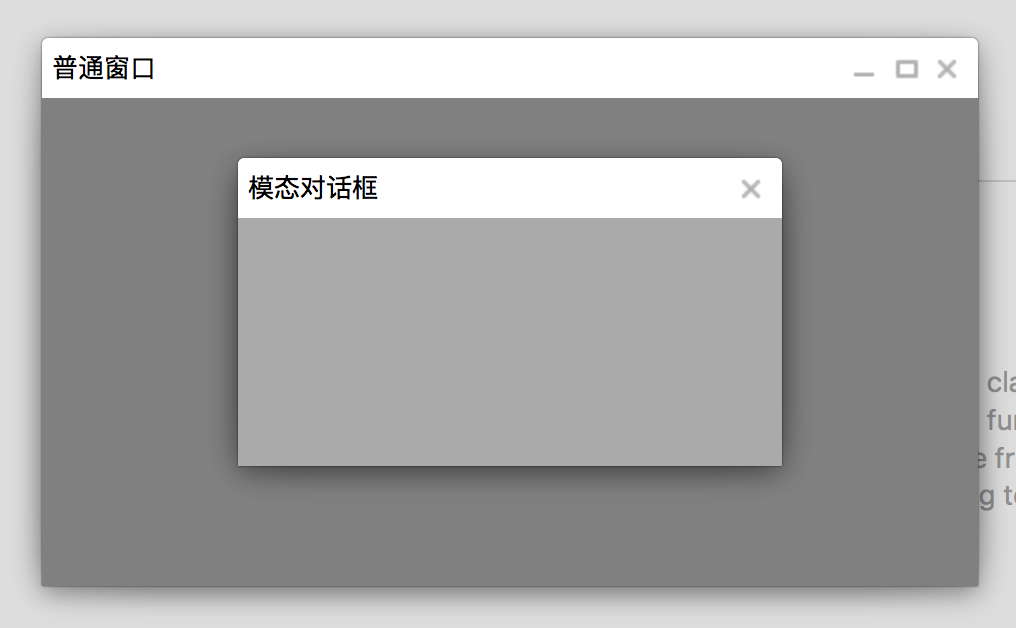
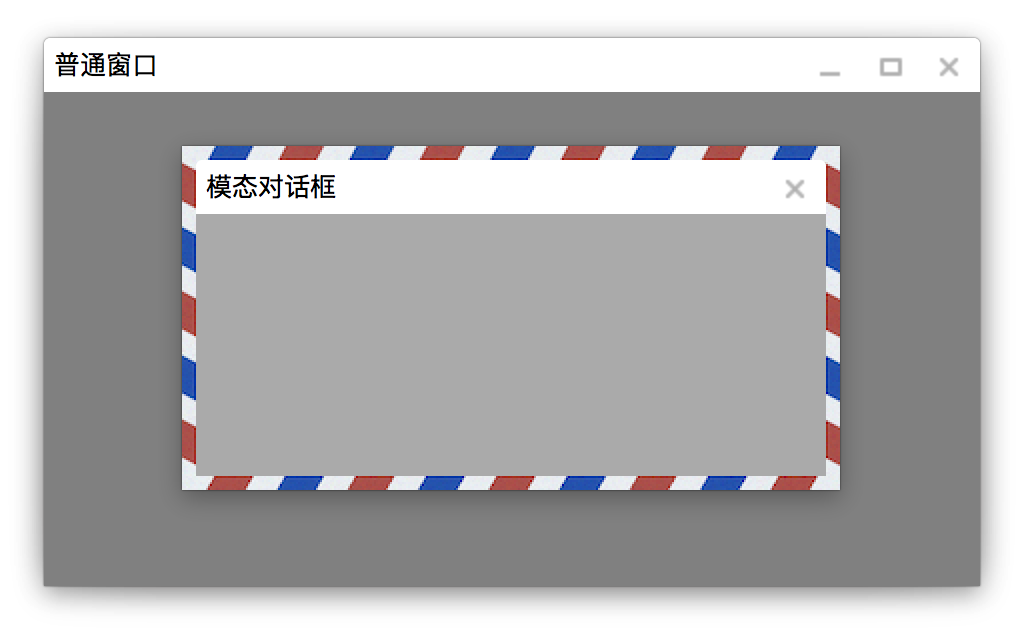
增加自定义边框功能

diff --git a/MagicWindow/NinePatchPainter.cpp b/MagicWindow/NinePatchPainter.cpp
@@ -9,16 +9,17 @@
  |----------------------------------------------------------------------------*/
 class NinePatchPainterPrivate {
 public:
-    NinePatchPainterPrivate(int left, int top, int right, int bottom, const QString &imagePath);
+    NinePatchPainterPrivate(int left, int top, int right, int bottom, const QString &imagePath, bool tiled);
 
-    void prepareNinePatchImages(const QString imagePath); // 根据给定的 left, top, right, bottom 把图片按九宫格切为 9 个子图
+    void prepareNinePatchPixmaps(const QString imagePath); // 根据给定的 left, top, right, bottom 把图片按九宫格切为 9 个子图
     QList<QRect> calculateNinePatchRects(const QRect &rect) const; // 根据给定的 left, top, right, bottom 把 rect 按九宫格切为 9 个 rect
-    QPixmap scaleImage(const QPixmap &pixmap, const QSize &size) const; // 对图片进行缩放处理
+    QPixmap scalePixmap(const QPixmap &pixmap, const QSize &size) const; // 对图片进行缩放处理
 
-    int left;   // 左边的宽
-    int top;    // 上边的宽
-    int right;  // 右边的宽
-    int bottom; // 下边的宽
+    int  left;   // 左边的宽
+    int  top;    // 上边的宽
+    int  right;  // 右边的宽
+    int  bottom; // 下边的宽
+    bool tiled;  // 是否使用平铺绘制
 
     QPixmap leftPixmap;        // 左边的图片
     QPixmap topLeftPixmap;     // 左上角的图片
@@ -31,12 +32,12 @@ public:
     QPixmap centerPixmap;      // 中间的图片
 };
 
-NinePatchPainterPrivate::NinePatchPainterPrivate(int left, int top, int right, int bottom, const QString &imagePath)
-    : left(left), top(top), right(right), bottom(bottom) {
-    prepareNinePatchImages(imagePath); // 准备好九宫格的 9 个子图，程序运行期间不会变，所以保存起来
+NinePatchPainterPrivate::NinePatchPainterPrivate(int left, int top, int right, int bottom, const QString &imagePath, bool tiled)
+    : left(left), top(top), right(right), bottom(bottom), tiled(tiled) {
+    prepareNinePatchPixmaps(imagePath); // 准备好九宫格的 9 个子图，程序运行期间不会变，所以保存起来
 }
 
-void NinePatchPainterPrivate::prepareNinePatchImages(const QString imagePath) {
+void NinePatchPainterPrivate::prepareNinePatchPixmaps(const QString imagePath) {
     // 加载背景图
     QPixmap pixmap(imagePath);
 
@@ -79,7 +80,7 @@ QList<QRect> NinePatchPainterPrivate::calculateNinePatchRects(const QRect &rect)
                           << centerRect;
 }
 
-QPixmap NinePatchPainterPrivate::scaleImage(const QPixmap &pixmap, const QSize &size) const {
+QPixmap NinePatchPainterPrivate::scalePixmap(const QPixmap &pixmap, const QSize &size) const {
     // 缩放的时候忽略图片的高宽比，使用平滑缩放的效果
     return pixmap.scaled(size, Qt::IgnoreAspectRatio, Qt::SmoothTransformation);
 }
@@ -87,8 +88,8 @@ QPixmap NinePatchPainterPrivate::scaleImage(const QPixmap &pixmap, const QSize &
 /*-----------------------------------------------------------------------------|
  |                              NinePatchPainter                               |
  |----------------------------------------------------------------------------*/
-NinePatchPainter::NinePatchPainter(int left, int top, int right, int bottom, const QString &imagePath)
-    : d(new NinePatchPainterPrivate(left, top, right, bottom, imagePath)) {
+NinePatchPainter::NinePatchPainter(int left, int top, int right, int bottom, const QString &imagePath, bool tiled)
+    : d(new NinePatchPainterPrivate(left, top, right, bottom, imagePath, tiled)) {
 }
 
 NinePatchPainter::~NinePatchPainter() {
@@ -110,13 +111,23 @@ void NinePatchPainter::draw(QPainter *painter, const QRect &rect) const {
     QRect centerRect      = rects.at(8);
 
     // 把背景图片上的 9 个部分使用缩放的方式绘制到 Rect 上对应的 9 个部分
-    painter->drawTiledPixmap(leftRect, d->scaleImage(d->leftPixmap, leftRect.size()));
-    painter->drawPixmap(topLeftRect, d->scaleImage(d->topLeftPixmap, topLeftRect.size()));
-    painter->drawTiledPixmap(topRect, d->scaleImage(d->topPixmap, topRect.size()));
-    painter->drawPixmap(topRightRect, d->scaleImage(d->topRightPixmap,topRightRect.size()));
-    painter->drawTiledPixmap(rightRect, d->scaleImage(d->rightPixmap, rightRect.size()));
-    painter->drawPixmap(bottomRightRect, d->scaleImage(d->bottomRightPixmap, bottomRightRect.size()));
-    painter->drawTiledPixmap(bottomRect, d->scaleImage(d->bottomPixmap, bottomRect.size()));
-    painter->drawPixmap(bottomLeftRect, d->scaleImage(d->bottomLeftPixmap, bottomLeftRect.size()));
-    painter->drawPixmap(centerRect, d->scaleImage(d->centerPixmap, centerRect.size()));
+    painter->drawPixmap(topLeftRect,     d->scalePixmap(d->topLeftPixmap, topLeftRect.size()));
+    painter->drawPixmap(topRightRect,    d->scalePixmap(d->topRightPixmap,topRightRect.size()));
+    painter->drawPixmap(bottomRightRect, d->scalePixmap(d->bottomRightPixmap, bottomRightRect.size()));
+    painter->drawPixmap(bottomLeftRect,  d->scalePixmap(d->bottomLeftPixmap, bottomLeftRect.size()));
+    painter->drawPixmap(centerRect,      d->scalePixmap(d->centerPixmap, centerRect.size()));
+
+    if (d->tiled) {
+        // 平铺绘制
+        painter->drawTiledPixmap(leftRect,   d->leftPixmap);   // left
+        painter->drawTiledPixmap(topRect,    d->topPixmap);    // top
+        painter->drawTiledPixmap(rightRect,  d->rightPixmap);  // right
+        painter->drawTiledPixmap(bottomRect, d->bottomPixmap); // bottom
+    } else {
+        // 拉伸绘制
+        painter->drawPixmap(leftRect,   d->scalePixmap(d->leftPixmap, leftRect.size()));     // left
+        painter->drawPixmap(topRect,    d->scalePixmap(d->topPixmap, topRect.size()));       // top
+        painter->drawPixmap(rightRect,  d->scalePixmap(d->rightPixmap, rightRect.size()));   // right
+        painter->drawPixmap(bottomRect, d->scalePixmap(d->bottomPixmap, bottomRect.size())); // bottom
+    }
 }

diff --git a/MagicWindow/MagicWindow.cpp b/MagicWindow/MagicWindow.cpp
@@ -8,13 +8,13 @@
 #include <QMouseEvent>
 
 /*-----------------------------------------------------------------------------|
- |                           FramelessWindowPrivate                            |
+ |                              MagicWindowPrivate                             |
  |----------------------------------------------------------------------------*/
 class MagicWindowPrivate {
 public:
     QWidget *centralWidget;
     NinePatchPainter *ninePatchPainter;
-    QMargins padding; // 根据阴影的大小来设置窗口的 padding 以便达到满意的效果
+    QMargins padding; // 根据 border image 的边(一般是阴影的大小)来设置窗口的 padding 以便达到满意的效果
 
     bool left;      // 为 true 时鼠标在窗口的左边框
     bool right;     // 为 true 时鼠标在窗口的右边框
@@ -27,10 +27,19 @@ public:
     QRect  rubberBandRectAsDrag;         // 鼠标按下时 rubberBand 的矩形
     QRubberBand *rubberBand;
 
-    MagicWindowPrivate(QWidget *centralWidget) : centralWidget(centralWidget), resizable(true),
+    MagicWindowPrivate(QWidget *centralWidget,
+                       const QMargins &windowPaddings,
+                       const QMargins &borderImageBorders,
+                       const QString  &borderImagePath,
+                       bool  tiled)
+        : centralWidget(centralWidget), padding(windowPaddings), resizable(true),
         rubberBand(new QRubberBand(QRubberBand::Rectangle)) {
-        padding = QMargins(16, 10, 16, 16); // 根据阴影的大小来设置窗口的 padding 以便达到满意的效果
-        ninePatchPainter = new NinePatchPainter(23, 13, 23, 33, ":/img/shadow.png"); // 根据阴影的大小来设置
+        ninePatchPainter = new NinePatchPainter(borderImageBorders.left(),
+                                                borderImageBorders.top(),
+                                                borderImageBorders.right(),
+                                                borderImageBorders.bottom(),
+                                                borderImagePath,
+                                                tiled);
     }
 
     ~MagicWindowPrivate() {
@@ -39,9 +48,14 @@ public:
 };
 
 /*-----------------------------------------------------------------------------|
- |                               FramelessWindow                               |
+ |                                 MagicWindow                                 |
  |----------------------------------------------------------------------------*/
-MagicWindow::MagicWindow(QWidget *centralWidget) : ui(new Ui::MagicWindow), d(new MagicWindowPrivate(centralWidget)) {
+MagicWindow::MagicWindow(QWidget *centralWidget,
+                         const QMargins &windowPaddings,
+                         const QMargins &borderImageBorders,
+                         const QString  &borderImagePath,
+                         bool tiled)
+    : ui(new Ui::MagicWindow), d(new MagicWindowPrivate(centralWidget, windowPaddings, borderImageBorders, borderImagePath, tiled)) {
     ui->setupUi(this);
     setWindowFlags(Qt::FramelessWindowHint);
     setAttribute(Qt::WA_TranslucentBackground);

diff --git a/MagicWindow/MagicWindow.h b/MagicWindow/MagicWindow.h
@@ -14,7 +14,21 @@ class MagicWindow : public QWidget {
     Q_OBJECT
 
 public:
-    explicit MagicWindow(QWidget *centralWidget);
+    /**
+     * @brief 使用 MagicWindow 创建一个自定义边框和标题栏的窗口，centralWidget 作为窗口的主要 widget 显示。如果需要使用自己的边框风格，
+     *        则传入 windowPaddings，borderImageBorders 和 borderImagePath。
+     *
+     * @param centralWidget      窗口的中心 widget
+     * @param windowPaddings     窗口的 padding，根据 border image 的边来设置
+     * @param borderImageBorders Border image 4 个边的宽度
+     * @param borderImagePath    Border image 的路径
+     * @param tiled              是否使用平铺的方式绘制边框
+     */
+    explicit MagicWindow(QWidget *centralWidget,
+                         const QMargins &windowPaddings     = QMargins(16, 10, 16, 16),
+                         const QMargins &borderImageBorders = QMargins(23, 13, 23, 33),
+                         const QString  &borderImagePath    = QString(":/img/shadow.png"),
+                         bool  tiled = false);
     ~MagicWindow();
 
     /**

diff --git a/Gui/Widget.cpp b/Gui/Widget.cpp
@@ -3,27 +3,18 @@
 #include "FoxWidget.h"
 
 #include <QPainter>
+#include <QFont>
 #include <QDebug>
 
 Widget::Widget(QWidget *parent) : QWidget(parent), ui(new Ui::Widget) {
     ui->setupUi(this);
-    QWidget *w = new FoxWidget();
-    w->setWindowFlags(Qt::ToolTip);
-    w->resize(400, 300);
-//    w->setAttribute(Qt::WA_DeleteOnClose);
-    connect(ui->pushButton, &QPushButton::clicked, [=] {
-        w->move(QCursor::pos());
-        w->show();
-    });
+
+    ui->label->setFont(QFont("Monaco", 30));
 }
 
 Widget::~Widget() {
     delete ui;
 }
-
-//void Widget::foo() {
-//    qDebug() << "foo()";
-//}
 
 void Widget::paintEvent(QPaintEvent *) {
     QPainter painter(this);

diff --git a/MagicWindow/main.cpp b/MagicWindow/main.cpp
@@ -22,8 +22,8 @@ int main(int argc, char *argv[]) {
         QWidget *centralWidget2 = new QWidget();
         centralWidget2->setStyleSheet("background: #AAA;");
 
-        // [2] showModal() 显示为模态对话框
-        MagicWindow *dialog = new MagicWindow(centralWidget2);
+        // [2] showModal() 显示为模态对话框，并且使用了自定义边框
+        MagicWindow *dialog = new MagicWindow(centralWidget2, QMargins(7,7,7,7), QMargins(8,8,8,8), ":/img/colorful-border.png", true);
         dialog->setTitle("模态对话框");
         dialog->setResizable(false);
         dialog->setAttribute(Qt::WA_DeleteOnClose);

diff --git a/MagicWindow/NinePatchPainter.h b/MagicWindow/NinePatchPainter.h
@@ -11,7 +11,7 @@ class NinePatchPainterPrivate;
  */
 class NinePatchPainter {
 public:
-    NinePatchPainter(int left, int top, int right, int bottom, const QString &imagePath);
+    NinePatchPainter(int left, int top, int right, int bottom, const QString &imagePath, bool tiled);
     ~NinePatchPainter();
 
     void draw(QPainter *painter, const QRect &rect) const;

diff --git a/Gui/Widget.h b/Gui/Widget.h
@@ -15,11 +15,6 @@ public:
     explicit Widget(QWidget *parent = 0);
     ~Widget();
 
-public slots:
-     void foo() {
-         qDebug() << "foo111()";
-     }
-
 protected:
     void paintEvent(QPaintEvent *event) Q_DECL_OVERRIDE;
 
